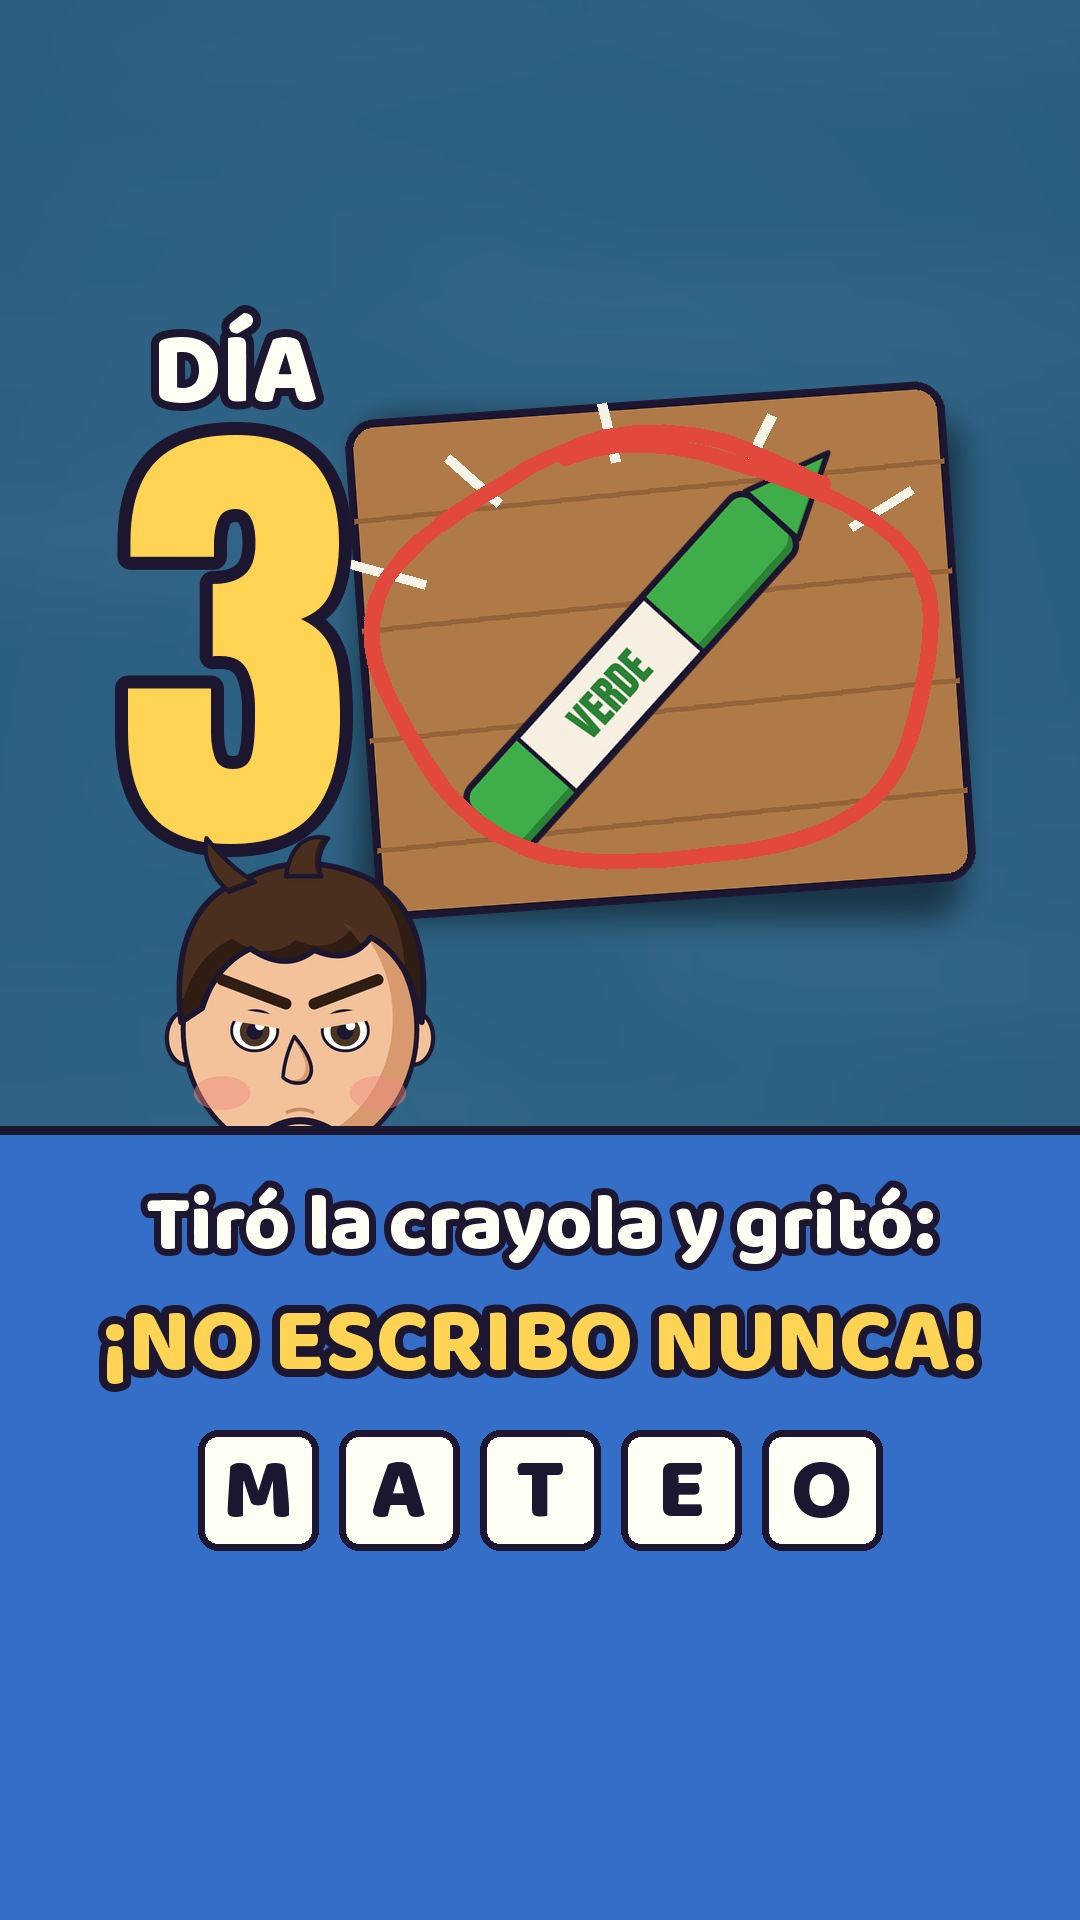
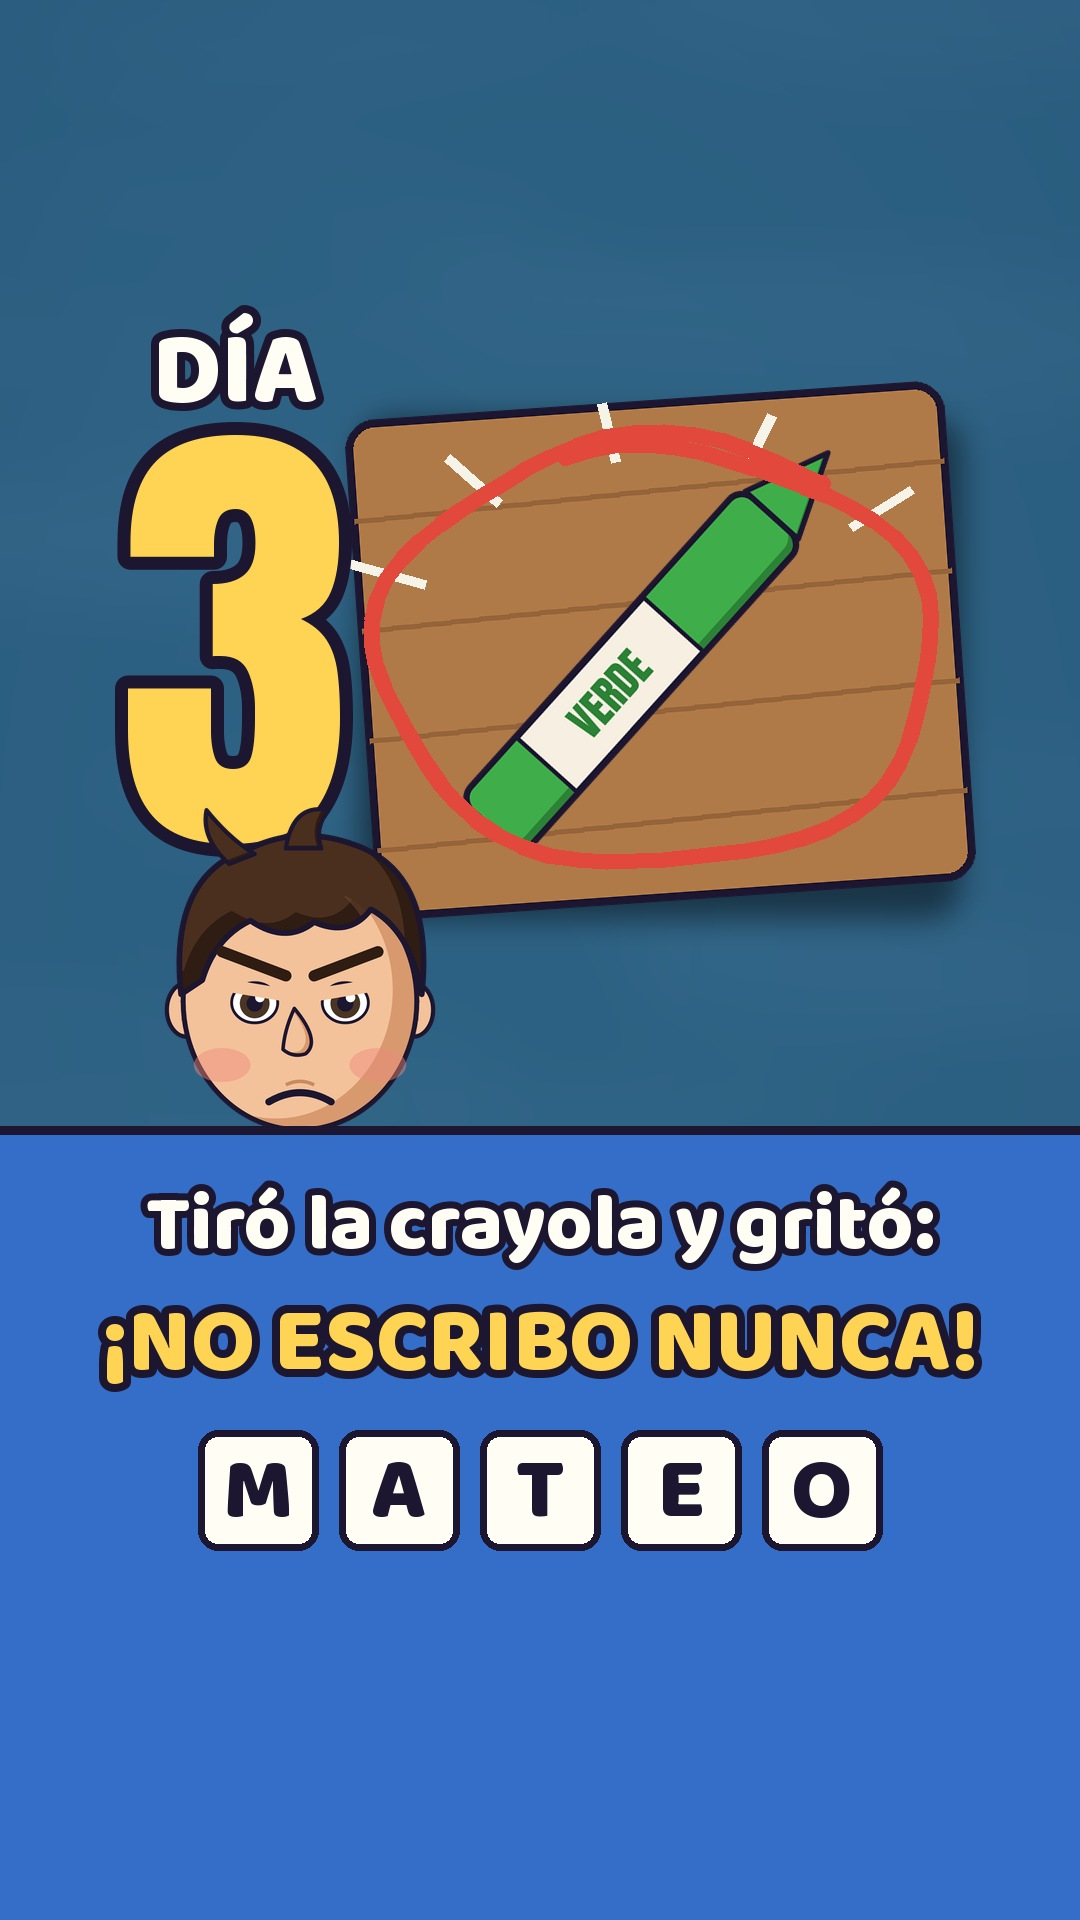
Portada Día 3: la cara de Mateo completa
Claude-Session: https://claude.ai/code/session_01NdJoArMrGbMDWGBL12rqNM

Changed region(s): [[0.1528, 0.4062, 0.3972, 0.5938]]

diff --git a/mateo30/portada_d2.py b/mateo30/portada_d2.py
@@ -16,7 +16,7 @@ def base(dia, objeto, emocion, l1, l2):
     col = COLORES[(dia - 1) % len(COLORES)]; c = pizarra(); c.alpha_composite(Image.new("RGBA", (W, H), col + (120,))); objeto(c)
     d = ImageDraw.Draw(c); d.text((235, 372), "DÍA", font=font(F_BAL, 104), fill=CREMA, anchor="mm", stroke_width=8, stroke_fill=OL)
     d.text((235, 640), str(dia), font=font(F_ANTON, 470 if dia < 10 else 330), fill=AMA, anchor="mm", stroke_width=13, stroke_fill=OL)
-    mateo(c, emocion, 300, 1030, .6, 0, blink=False)
+    mateo(c, emocion, 300, 1002, .6, 0, blink=False)
     d = ImageDraw.Draw(c); d.rectangle((0, 1130, W, H), fill=col); d.line((0, 1130, W, 1130), fill=OL, width=9)
     d.text((540, 1225), l1, font=font(F_BAL, 80), fill=CREMA, anchor="mm", stroke_width=7, stroke_fill=OL)
     d.text((540, 1343), l2, font=font(F_BAL, 92), fill=AMA, anchor="mm", stroke_width=8, stroke_fill=OL)
